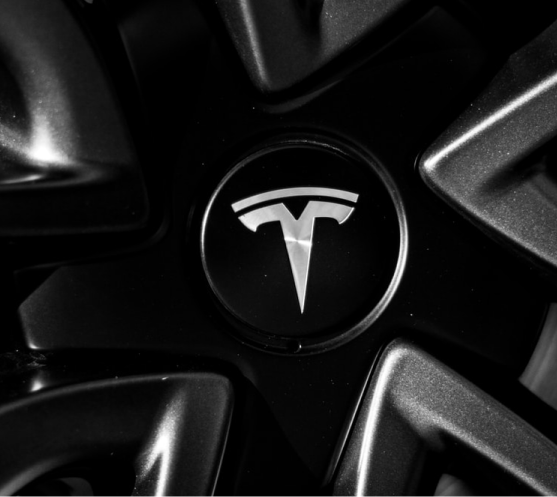
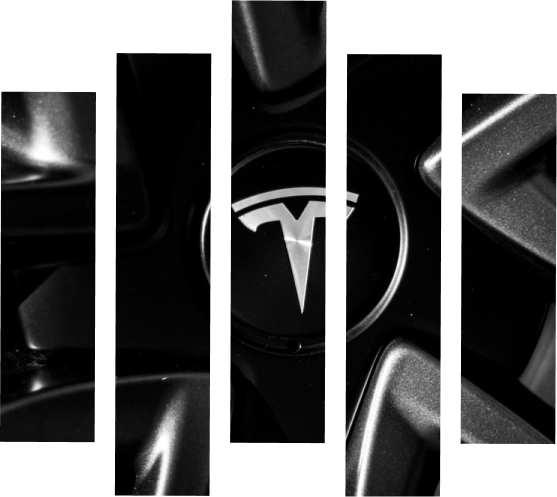
HomeWork finish, replace band by full png

diff --git a/src/components/HomeWorks.component.jsx b/src/components/HomeWorks.component.jsx
@@ -12,15 +12,10 @@ export default function HomeProjects() {
         </TitleSection>
         {works.map((work, index) => {
         return (
-          <ProjectContainer
-          key={index}
-          >
-            <ProjectImage>
-              <ImageBand  style={{ backgroundImage: `url(${require(`../assets/${work.image}`)})`}} ></ImageBand>
-              <ImageBand  style={{ backgroundImage: `url(${require(`../assets/${work.image}`)})`}} ></ImageBand>
-              <ImageBand  style={{ backgroundImage: `url(${require(`../assets/${work.image}`)})`}} ></ImageBand>
-              <ImageBand  style={{ backgroundImage: `url(${require(`../assets/${work.image}`)})`}} ></ImageBand>
-              <ImageBand  style={{ backgroundImage: `url(${require(`../assets/${work.image}`)})`}} ></ImageBand>
+          <ProjectContainer key={index}>
+            <ProjectImage 
+                src={require(`../assets/${work.image}`)}
+                alt='ProjectImage' >
             </ProjectImage>
             <ProjectInfos>
               <Title>{work.name}</Title>
@@ -53,10 +48,11 @@ const TitleSection = styled.h3`
   }
 `;
 const ProjectContainer = styled.div`
-  margin-top: 80px;
+  margin-top: 100px;
   width: 100%;
   display: flex;
   flex-direction: column;
+  cursor: pointer;
   align-items: center;
   justify-content: center;
   @media (min-width: ${breakpoints.tablet}) {
@@ -67,60 +63,29 @@ const ProjectContainer = styled.div`
     }
   }
 `;
-const ProjectImage = styled.div`
-  display: flex;
-  justify-content: center;
-  align-items: center;
-  cursor: pointer;
-`;
 
-const ImageBand = styled.div`
-  width: 50px;
-  height: 300px;
-  background: no-repeat 0 0 fixed;
-  margin: 5px;
-  display: inline-block;
+
+const ProjectImage = styled.img`
+  width : 75%;
+  height: auto;
+  max-width: 600px;
   transition: all ease-in-out .4s;
+  @media (min-width: ${breakpoints.tablet}) {
+    width: 55%;
+  }
   &:hover{
-    transform: scale(1.1)
-  }
-    @media (min-width: ${breakpoints.tablet}) {
-      width: 75px;
-      height: 375px;
-      margin: 8px;
-    }
-    @media (min-width: ${breakpoints.laptop}) {
-      width: 100px;
-      height: 450px;
-      margin: 10px;
-    }
-  &:nth-child(1),:nth-last-child(1){
-    height: 200px;
-    @media (min-width: ${breakpoints.tablet}) {
-      height: 275px;
-    }
-    @media (min-width: ${breakpoints.laptop}) {
-      height: 350px;
-    }
-  }
-  &:nth-child(even){
-    height: 250px;
-    @media (min-width: ${breakpoints.tablet}) {
-    height: 325px;
-    }
-    @media (min-width: ${breakpoints.laptop}) {
-      height: 400px;
-    }
+    transform: scale(1.1);
   }
 `;
 const ProjectInfos = styled.div`
   display: flex;
+  width: 90%;
   margin-top : 20px;
   flex-direction: column;
   justify-content: center;
   align-items: center; 
    @media (min-width: ${breakpoints.tablet}) {
-     max-width: 45%;
+    width: 45%;
     align-items: flex-start;
     margin: 0px 50px
     }
@@ -148,6 +113,7 @@ const Title = styled.h2`
 const Info = styled.p`
   margin-top: 17px;
   font-size: 18px;
+  text-align: center;
   span{
     color: ${colors.primaryColor}
   }
